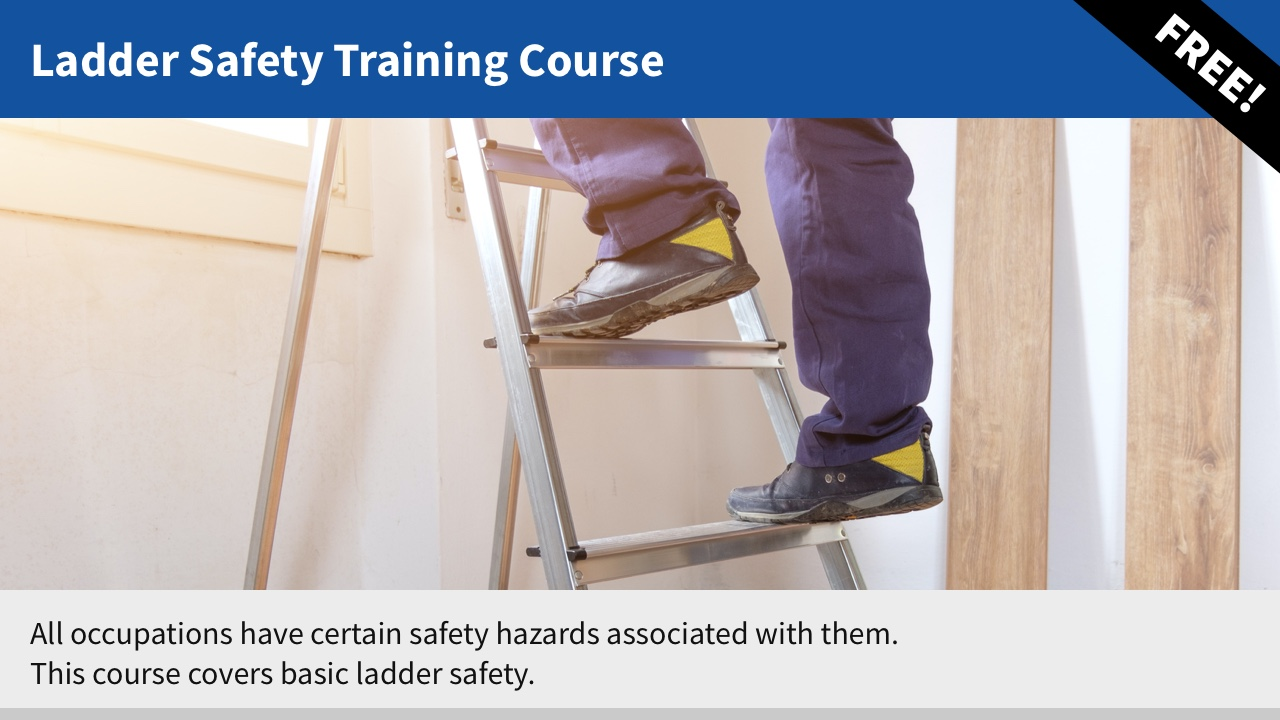
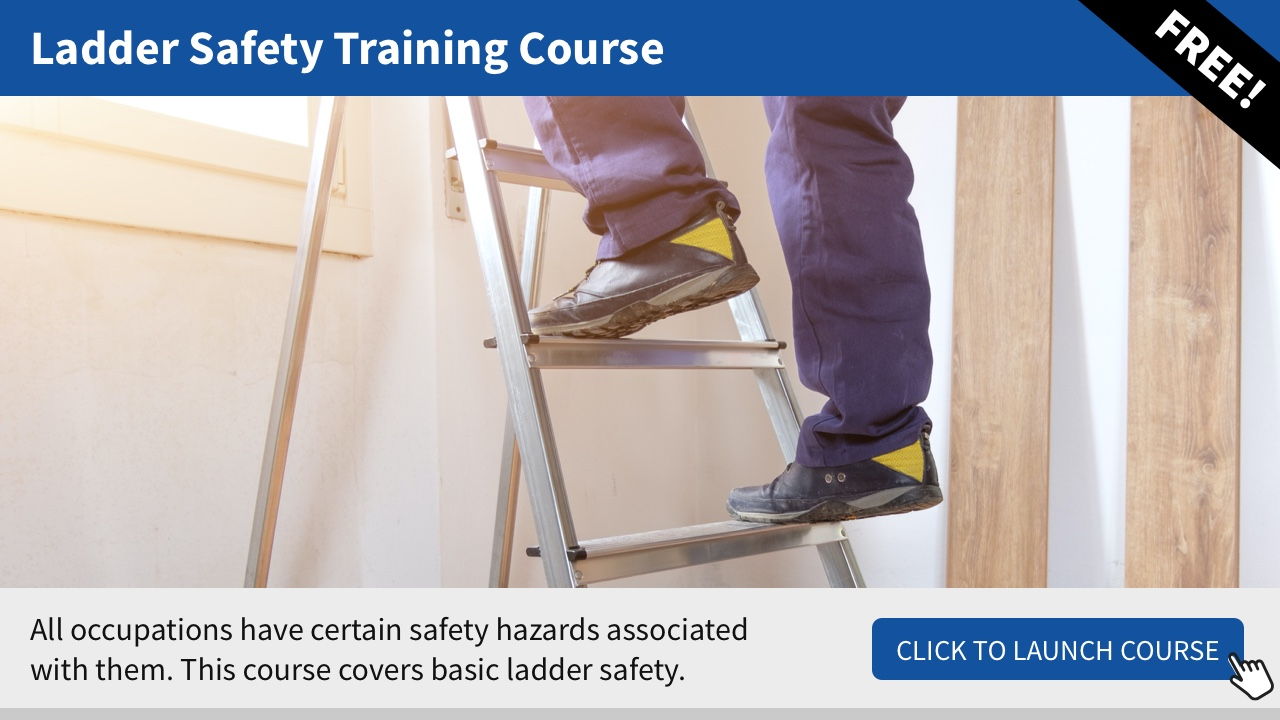
update course card

diff --git a/collections/_posts/2020-09-09-ladder-safety-training.md b/collections/_posts/2020-09-09-ladder-safety-training.md
@@ -32,12 +32,13 @@ Basic ladder safety should be provided for all employees. Those in specialized w
 ## What ladder safety training topics should I cover? 
 
 Ladder safety training focuses specifically on:
-•	Identifying fall hazards
-•	Correct procedures for erecting, maintaining, and disassembling fall protection systems
-•	Maximum load (weight) allowed on different ladders and fall protection systems
-•	The proper uses of and care for ladders and other equipment
-•	The use of proper footwear and safety equipment
-•	General fall prevention training 
+
+ * Identifying fall hazards
+ * Correct procedures for erecting, maintaining, and disassembling fall protection systems
+ * Maximum load (weight) allowed on different ladders and fall protection systems
+ * The proper uses of and care for ladders and other equipment
+ * The use of proper footwear and safety equipment
+ * General fall prevention training 
 
 We cover some of these in the free course below.
 
@@ -85,9 +86,13 @@ Depending on their role, ladder safety training may cover proper climbing techni
 
 Since so many deaths can be prevented with simple training, we developed a free ladder safety training online course that you can use immediately for your employees. This web-based version only covers the basics, and can't take the place of full training, but it's a great place to start if you need to get training out fast. We welcome you to share it with your employees.
 
-<a href="https://rise.articulate.com/share/bfe0aUdV6GFgTIJrtROshE5kKd__fEsm#/" target="_blank">{% asset 'blog/2020-09-09-ladder-safety-training-d.jpg'
-   alt='Make ladder training easy to remember, and hard to forget'
-   magick:resize='670' %}</a>
+<p style="text-align: center" class="marginBot">
+  <a href="https://rise.articulate.com/share/bfe0aUdV6GFgTIJrtROshE5kKd__fEsm#/" target="_blank">
+  {% asset 'blog/2020-09-09-ladder-safety-training-d3.jpg'
+    alt='Make ladder training easy to remember, and hard to forget'
+    magick:resize='480' %}
+  </a>
+</p>
 
 Need a longer ladder safety training program for your workforce? EdgePoint Learning can help. Contact us today to learn more about our custom and co-development options, as well as online, mobile, and blended learning opportunities. 
 
